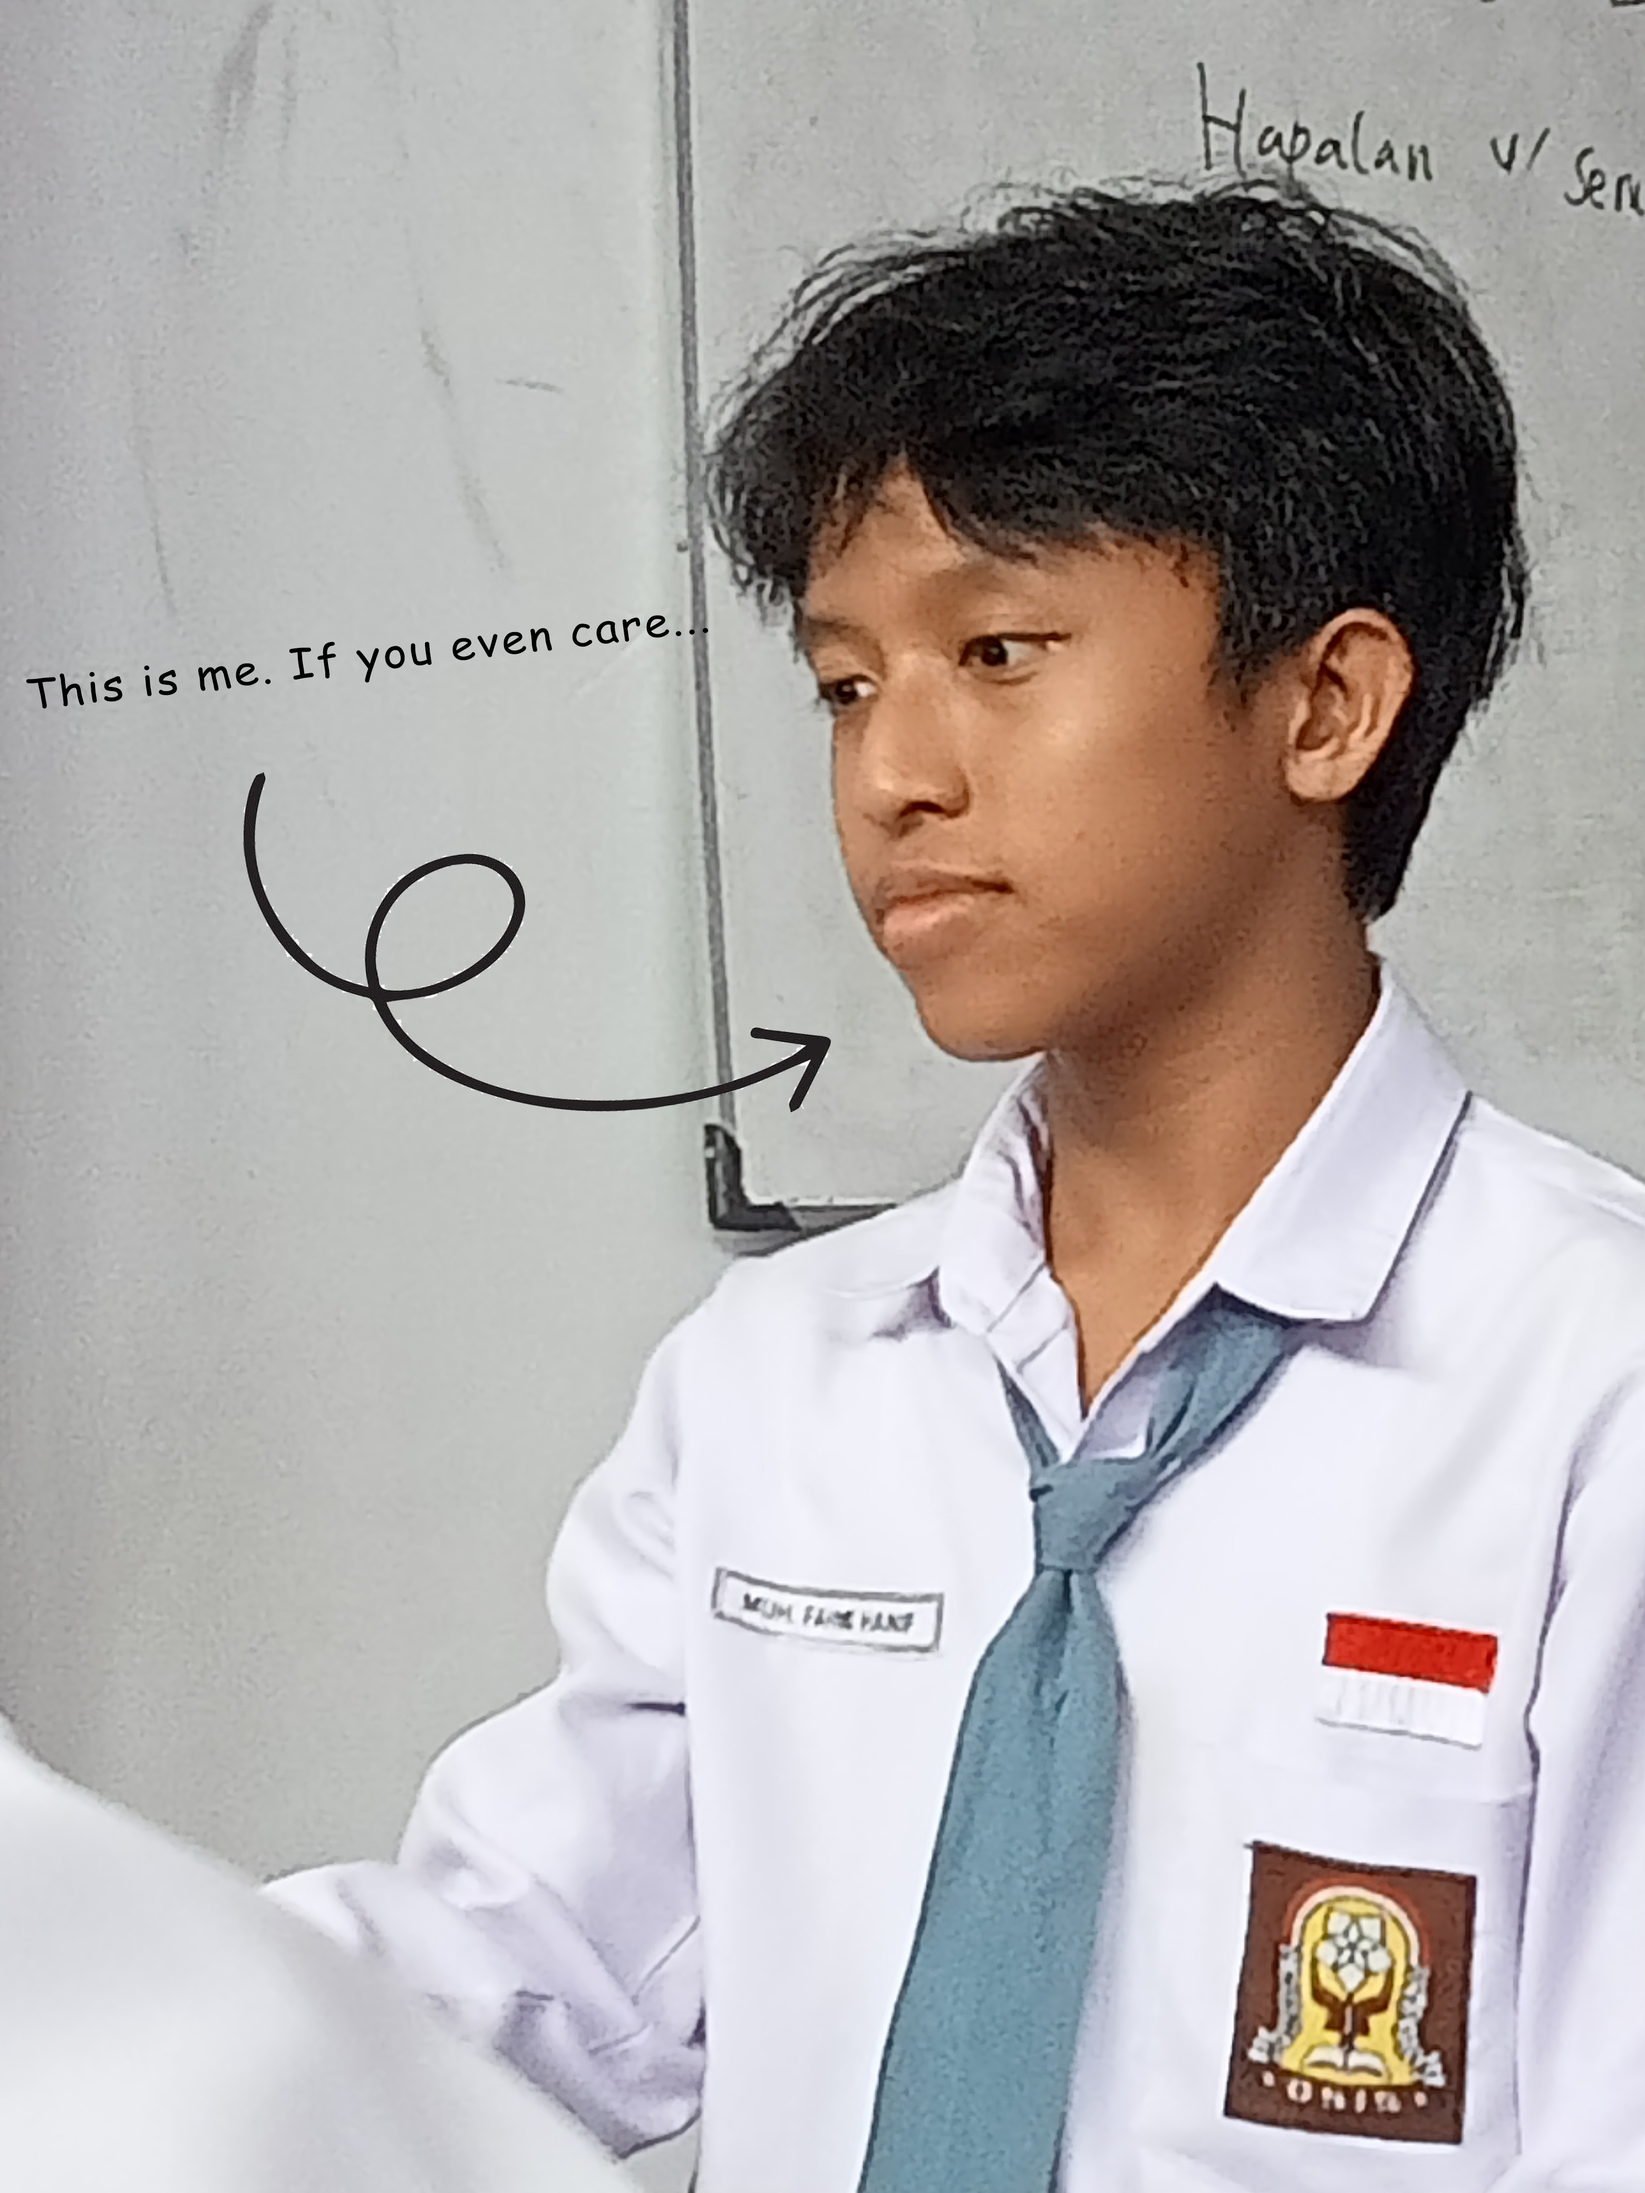
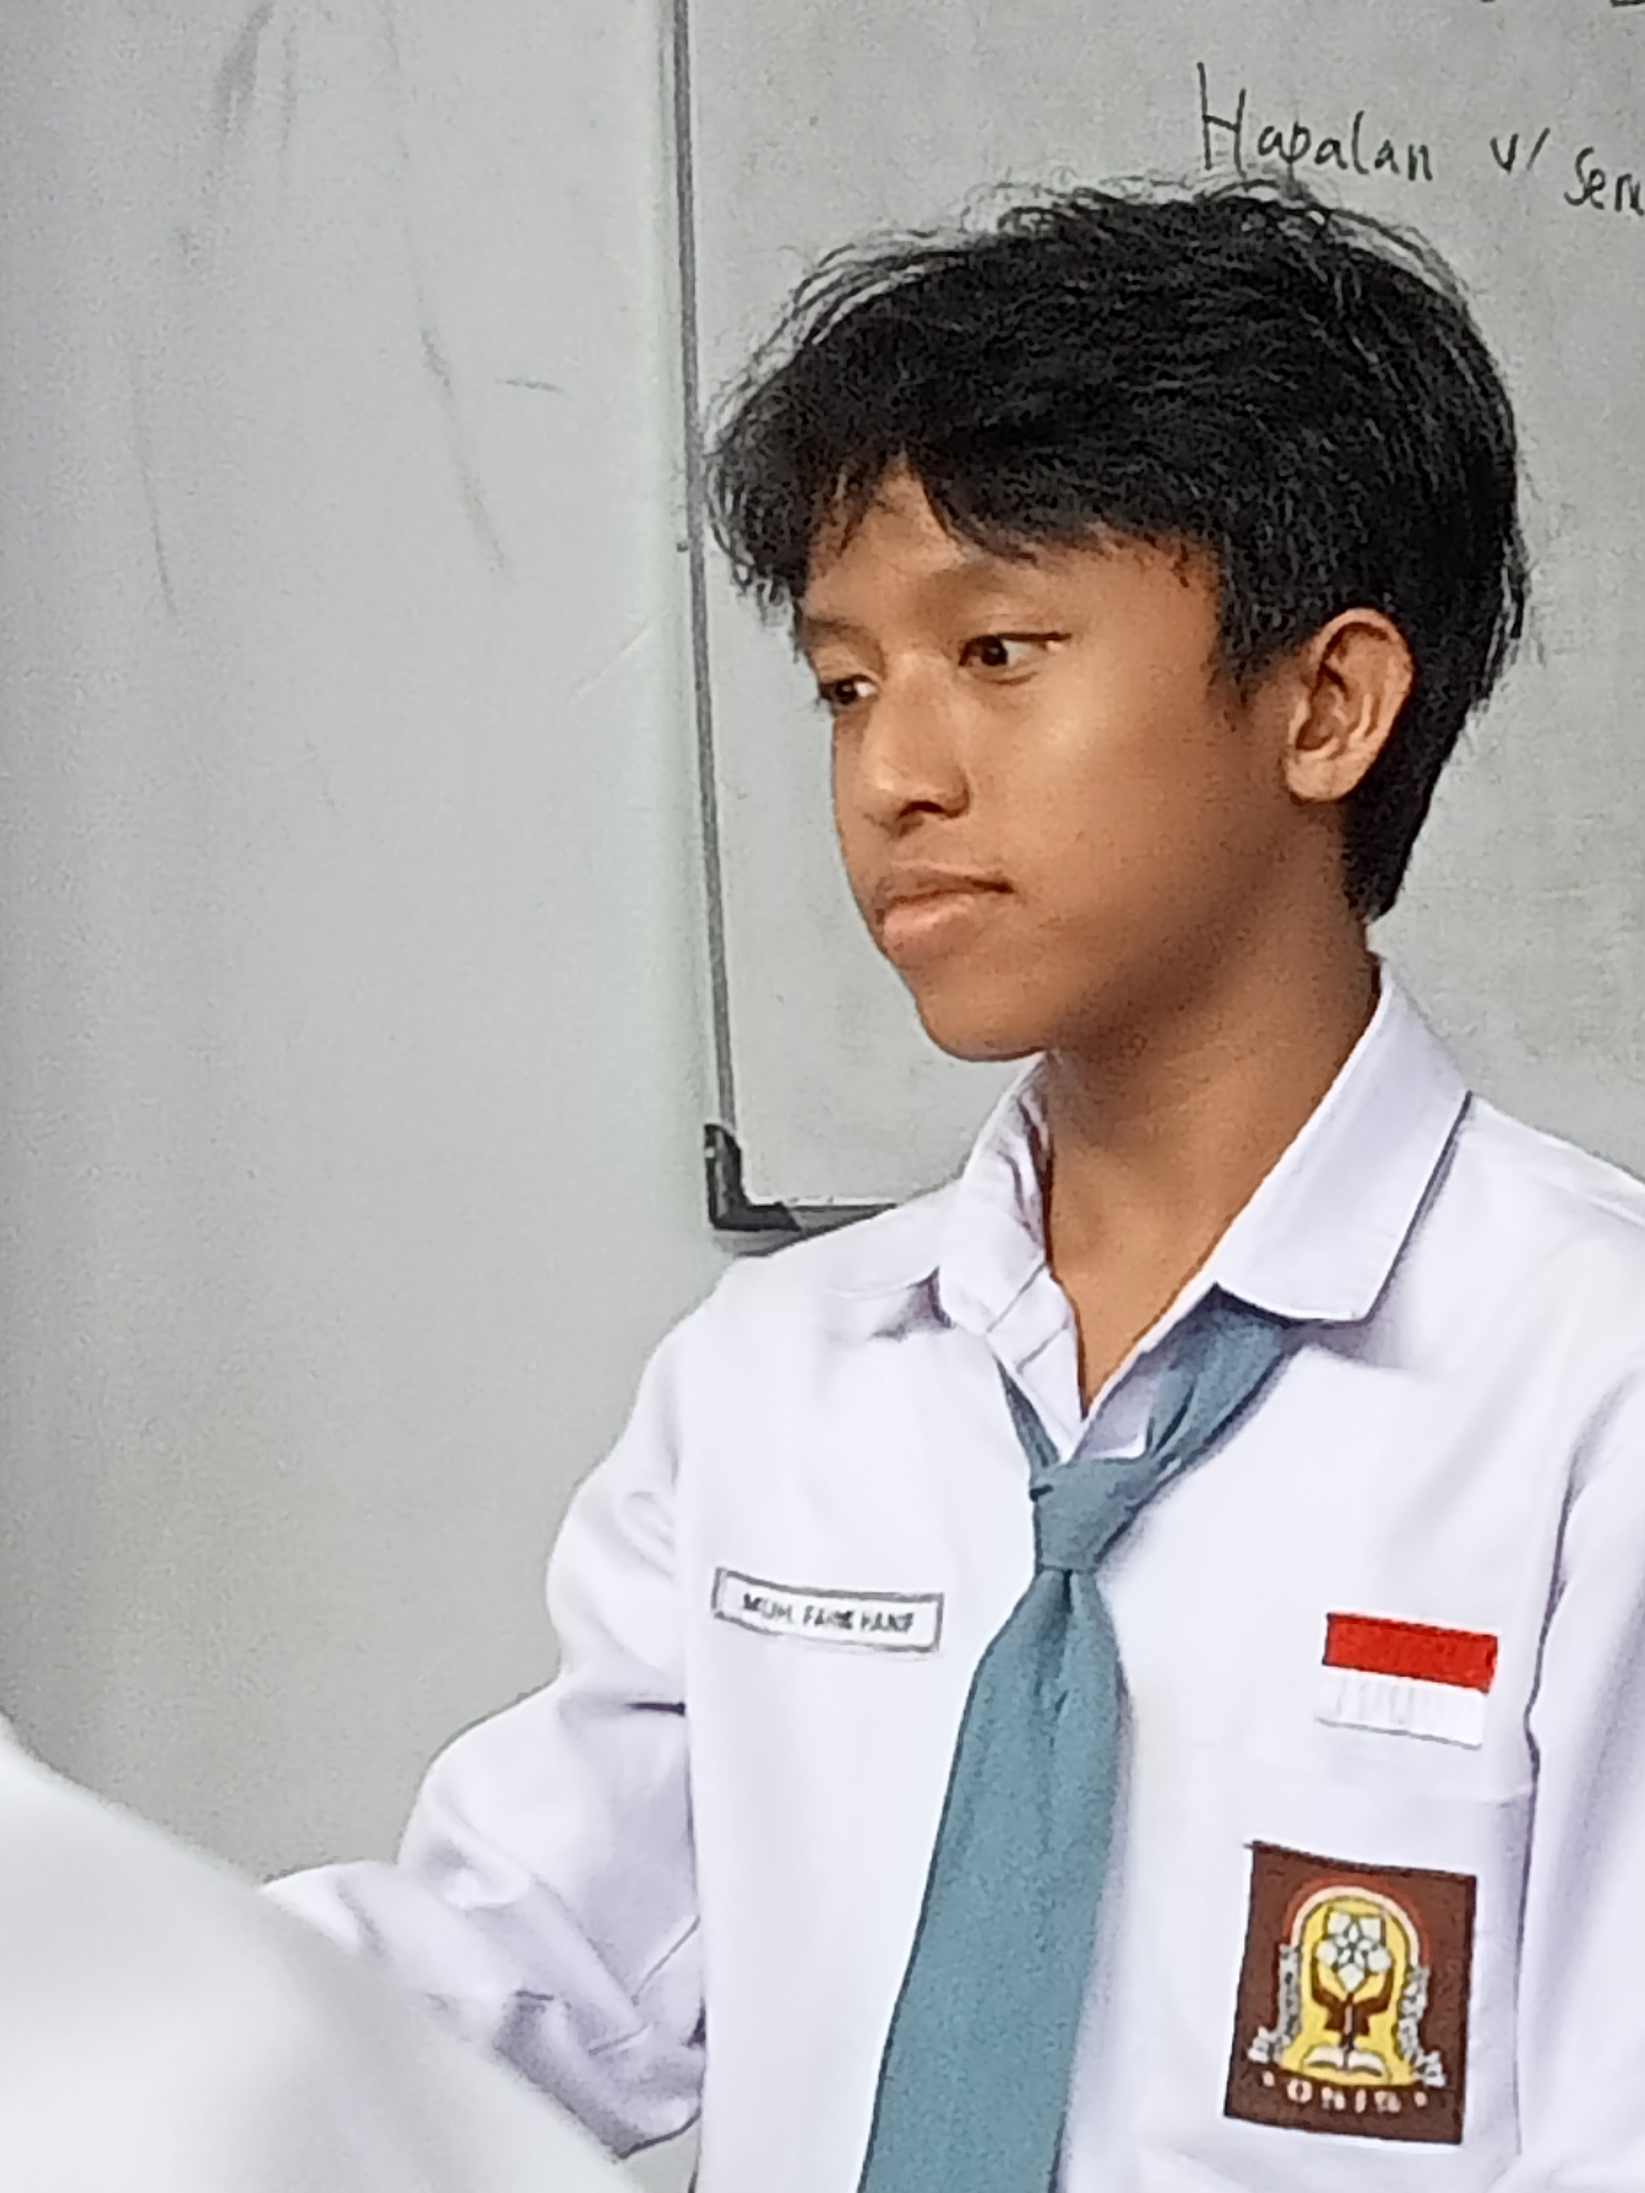
Delete image

diff --git a/src/components/About.js b/src/components/About.js
@@ -1,4 +1,4 @@
-import about from '../assets/about.jpg';
+// import about from '../assets/about.jpg';
 
 function About() {
 	return (
@@ -15,12 +15,12 @@ function About() {
 				<div
 					data-aos="fade-up"
 					className="flex flex-row-reverse gap-8 max-lg:block">
-					<img
+					{/* <img
 						src={about}
 						alt="writer's face"
 						className="w-1/2 h-96 object-cover rounded-2xl shadow-lg mx-auto max-lg:w-56 max-lg:h-56 max-lg:mb-8"
-					/>
-					<p className="w-full max-lg:text-justify">
+					/> */}
+					<p className="w-full text-justify">
 						Halo! saya Fahmi, seorang pelajar berusia 16 tahun dari
 						Kota Samarinda, Kalimantan Timur. Ketertarikan saya yang
 						besar terhadap dunia teknologi dan internet mendorong
